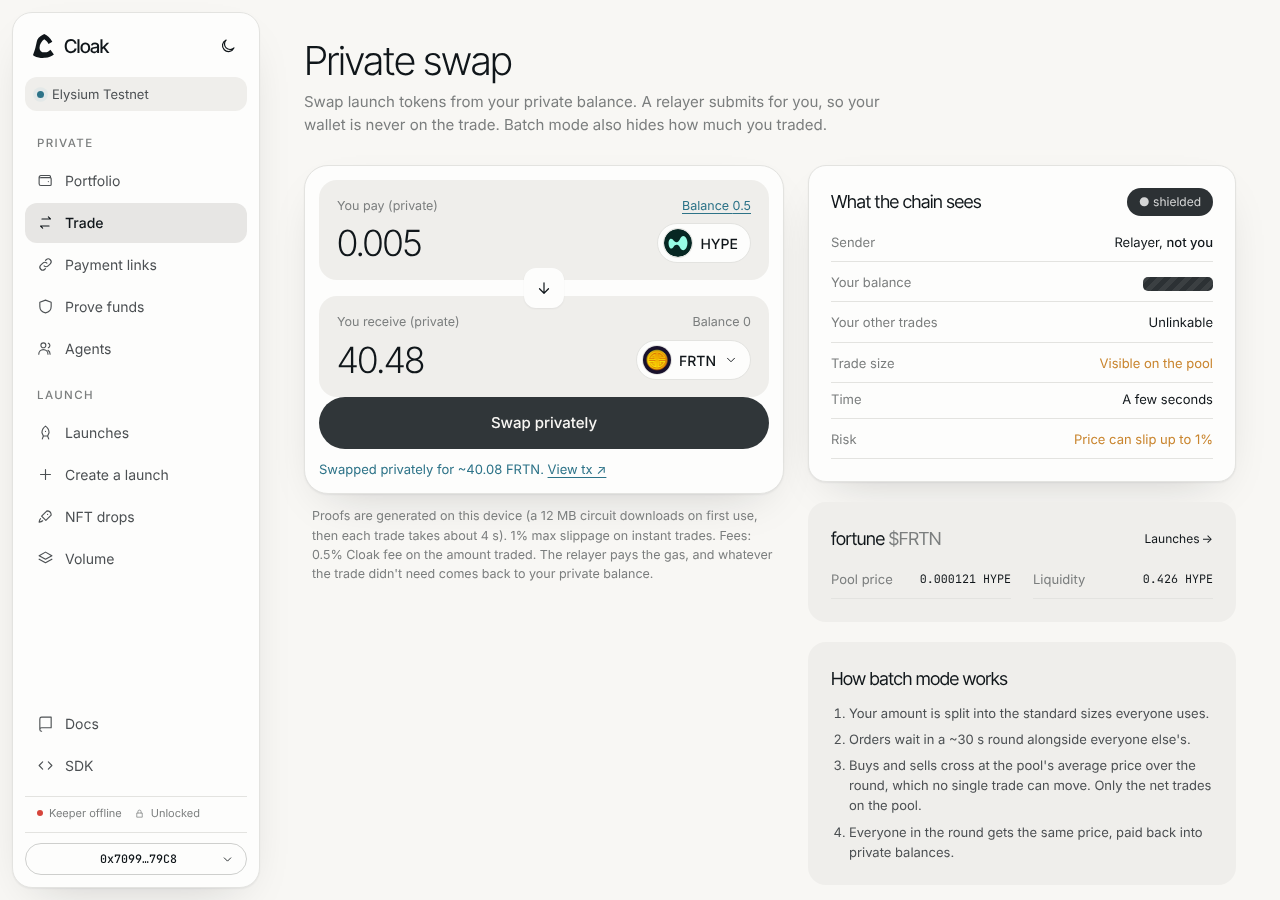
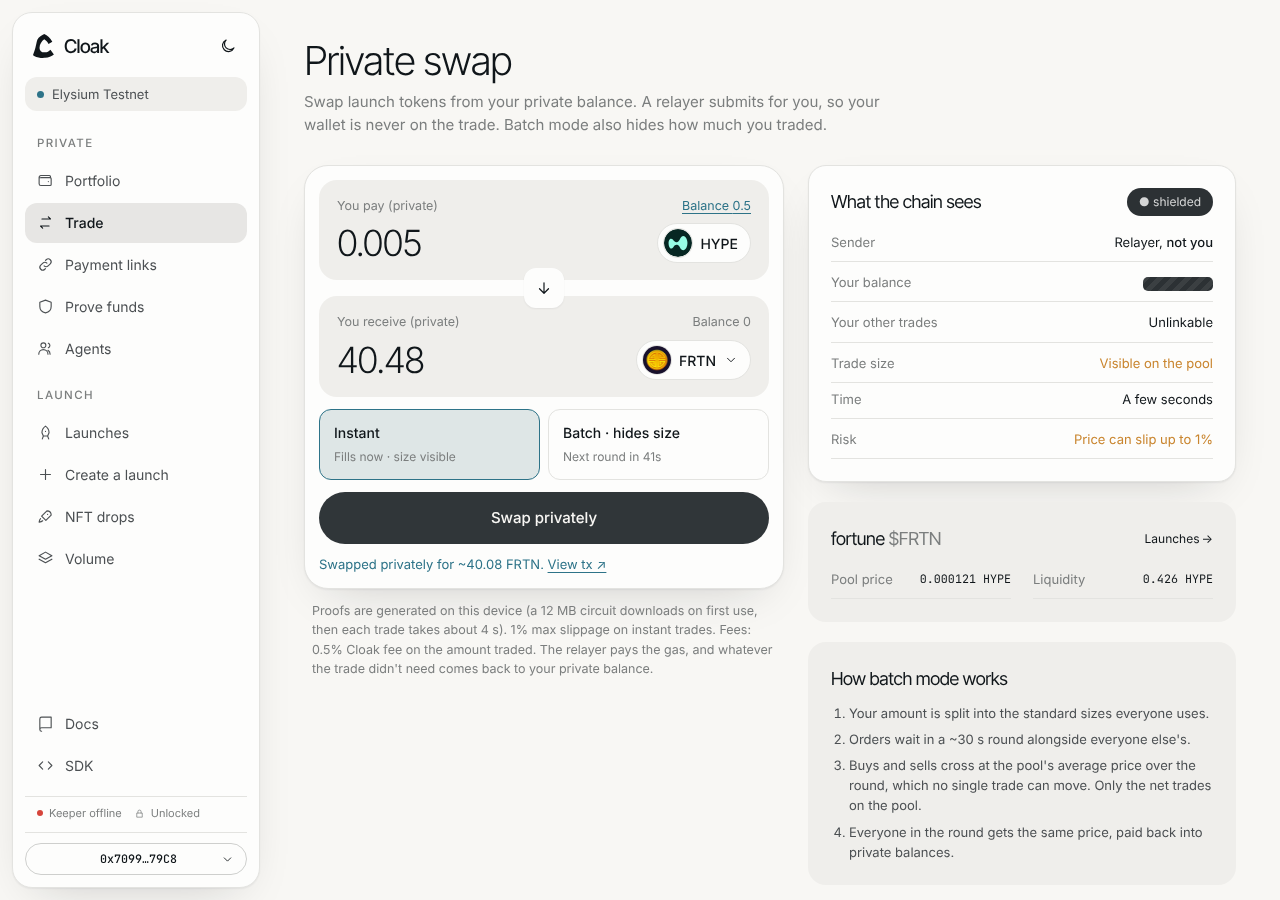
CloakGloamBatcherV4 live on Elysium testnet with the 5 v4 launches registered; site test places batch orders from the Trade page and the keeper settles them

Changed region(s): [[0.25, 0.4356, 0.625, 0.7467]]

diff --git a/packages/sdk/src/deployments.ts b/packages/sdk/src/deployments.ts
@@ -161,6 +161,8 @@ export const deployments: Record<number, CloakDeployment> = {
       receive: "0x4a11f7948513fe7517ef7c6efee88c5681bb06c4",
       bids: "0x0c3f42b10569a4550fe75785f86b2b019905f31b",
       graduation: "0x51756969b91f8b6a8c941250691b974c769c97fa",
+      // batch rounds through launches' own v4 pools (Nov 8): time-weighted price over at least a round, 4% per side
+      batcherV4: "0x5963bb45ed8d33d51f6de06ef9a21800a59496a3",
       fundsGate: "0x1642422970782e5d1b0a94a64ee022e2c3b4a25c",
       receiptCheck: "0x2236b68e231cebd7dd04e23fe756efdae726e325",
       whype: "0xe44b27113D4b947c0B1bDf4a93878D0e115f4bdD",

diff --git a/REPORT.md b/REPORT.md
@@ -952,3 +952,11 @@ An outside reviewer asked about the batcher's price window and the auction's unc
   - one share claimed privately, and the other to a fresh wallet (0.0995 arrived);
   - the link reading empty afterwards;
   - a request paid privately.
+
+### 16.27 The v4 batcher live on testnet, and the next steps written down (Nov 8)
+
+- **CloakGloamBatcherV4 on Elysium testnet:** `0x5963bb45ed8d33d51f6de06ef9a21800a59496a3` (block 26392134, 0.0003 HYPE, from the new testnet key). It's the reviewed version: a time-weighted price over at least a round, 4% per side, a settling deadline. All 5 settled launches with v4 pools are registered. It's in `deployments.ts` (`gloam.batcherV4`), so the site's Trade page offers batch mode for them.
+- **The real site** (`part8-site.mjs`) now also places sealed batch orders from the Trade page into the live batcher, on a fork, and the keeper loop settles the round. All parts pass.
+- **Mainnet path:**
+  - `e2e-gloam/deploy-partner.mjs` deploys v2 next to Gloam's own vault from a config and hands the guard to a Safe. It was rehearsed on a fork for 0.022 HYPE.
+  - The roadmap and to-do list are in `docs/MAINNET-V2.md`.
